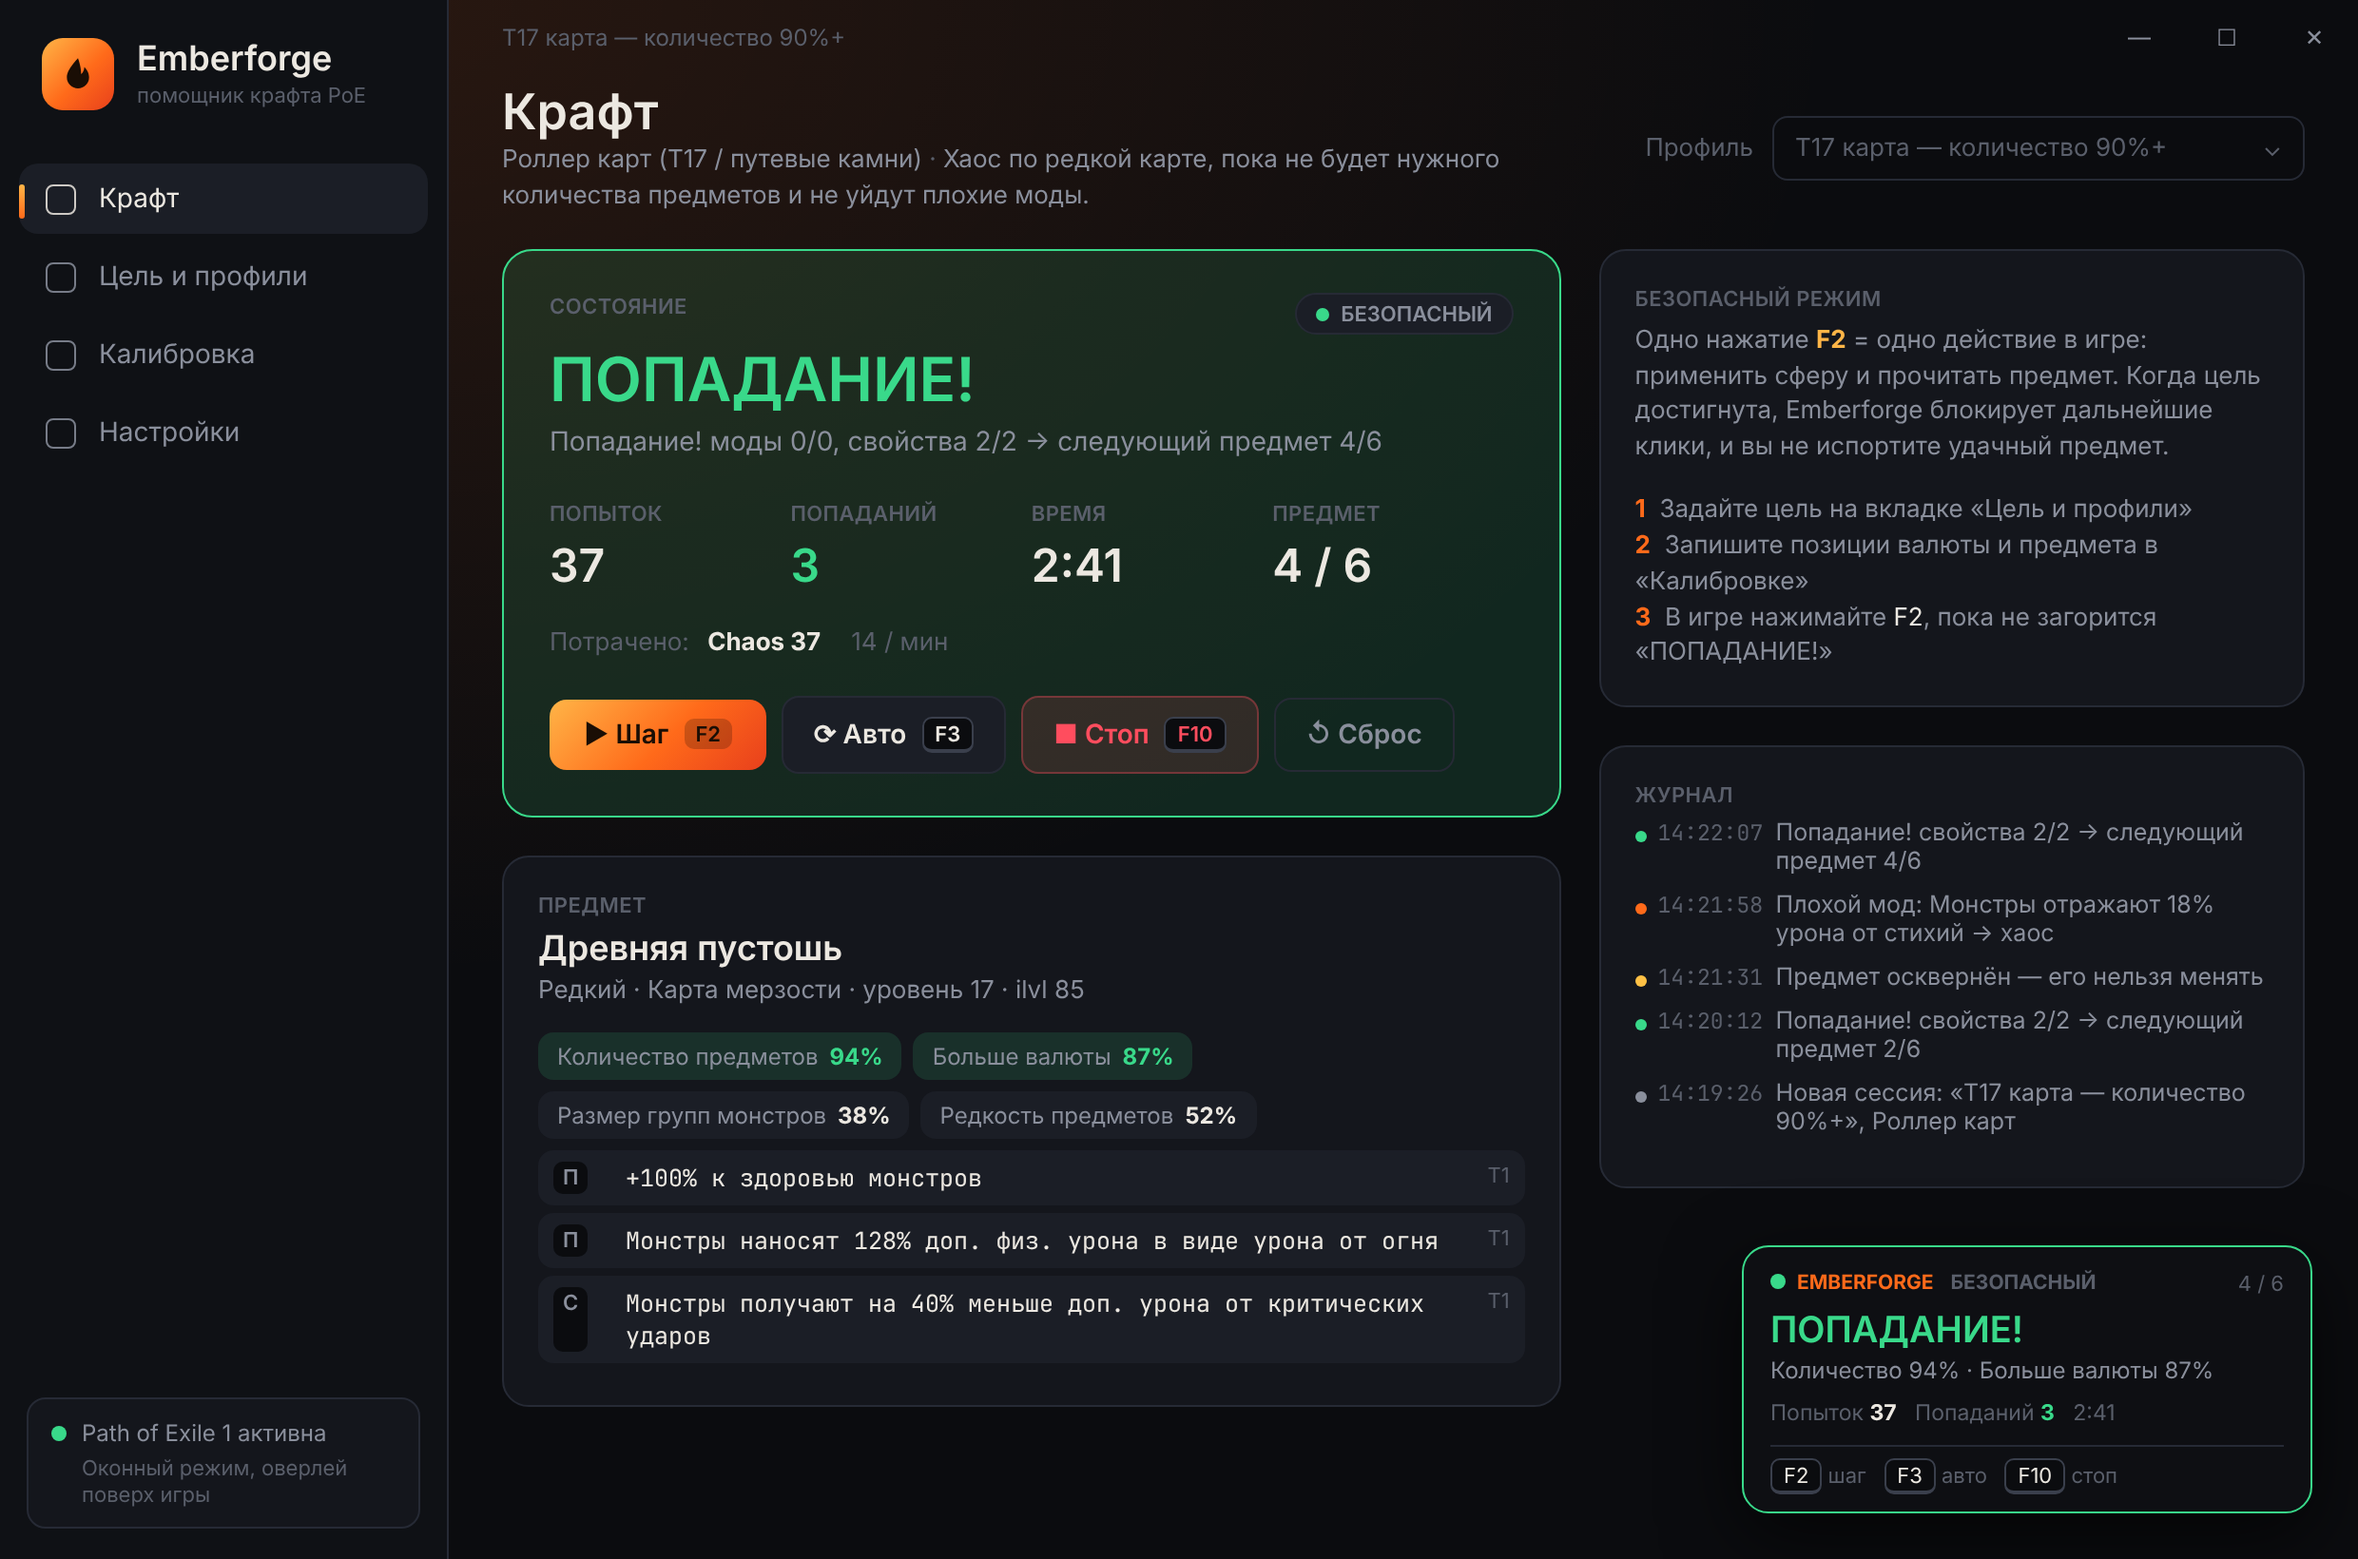
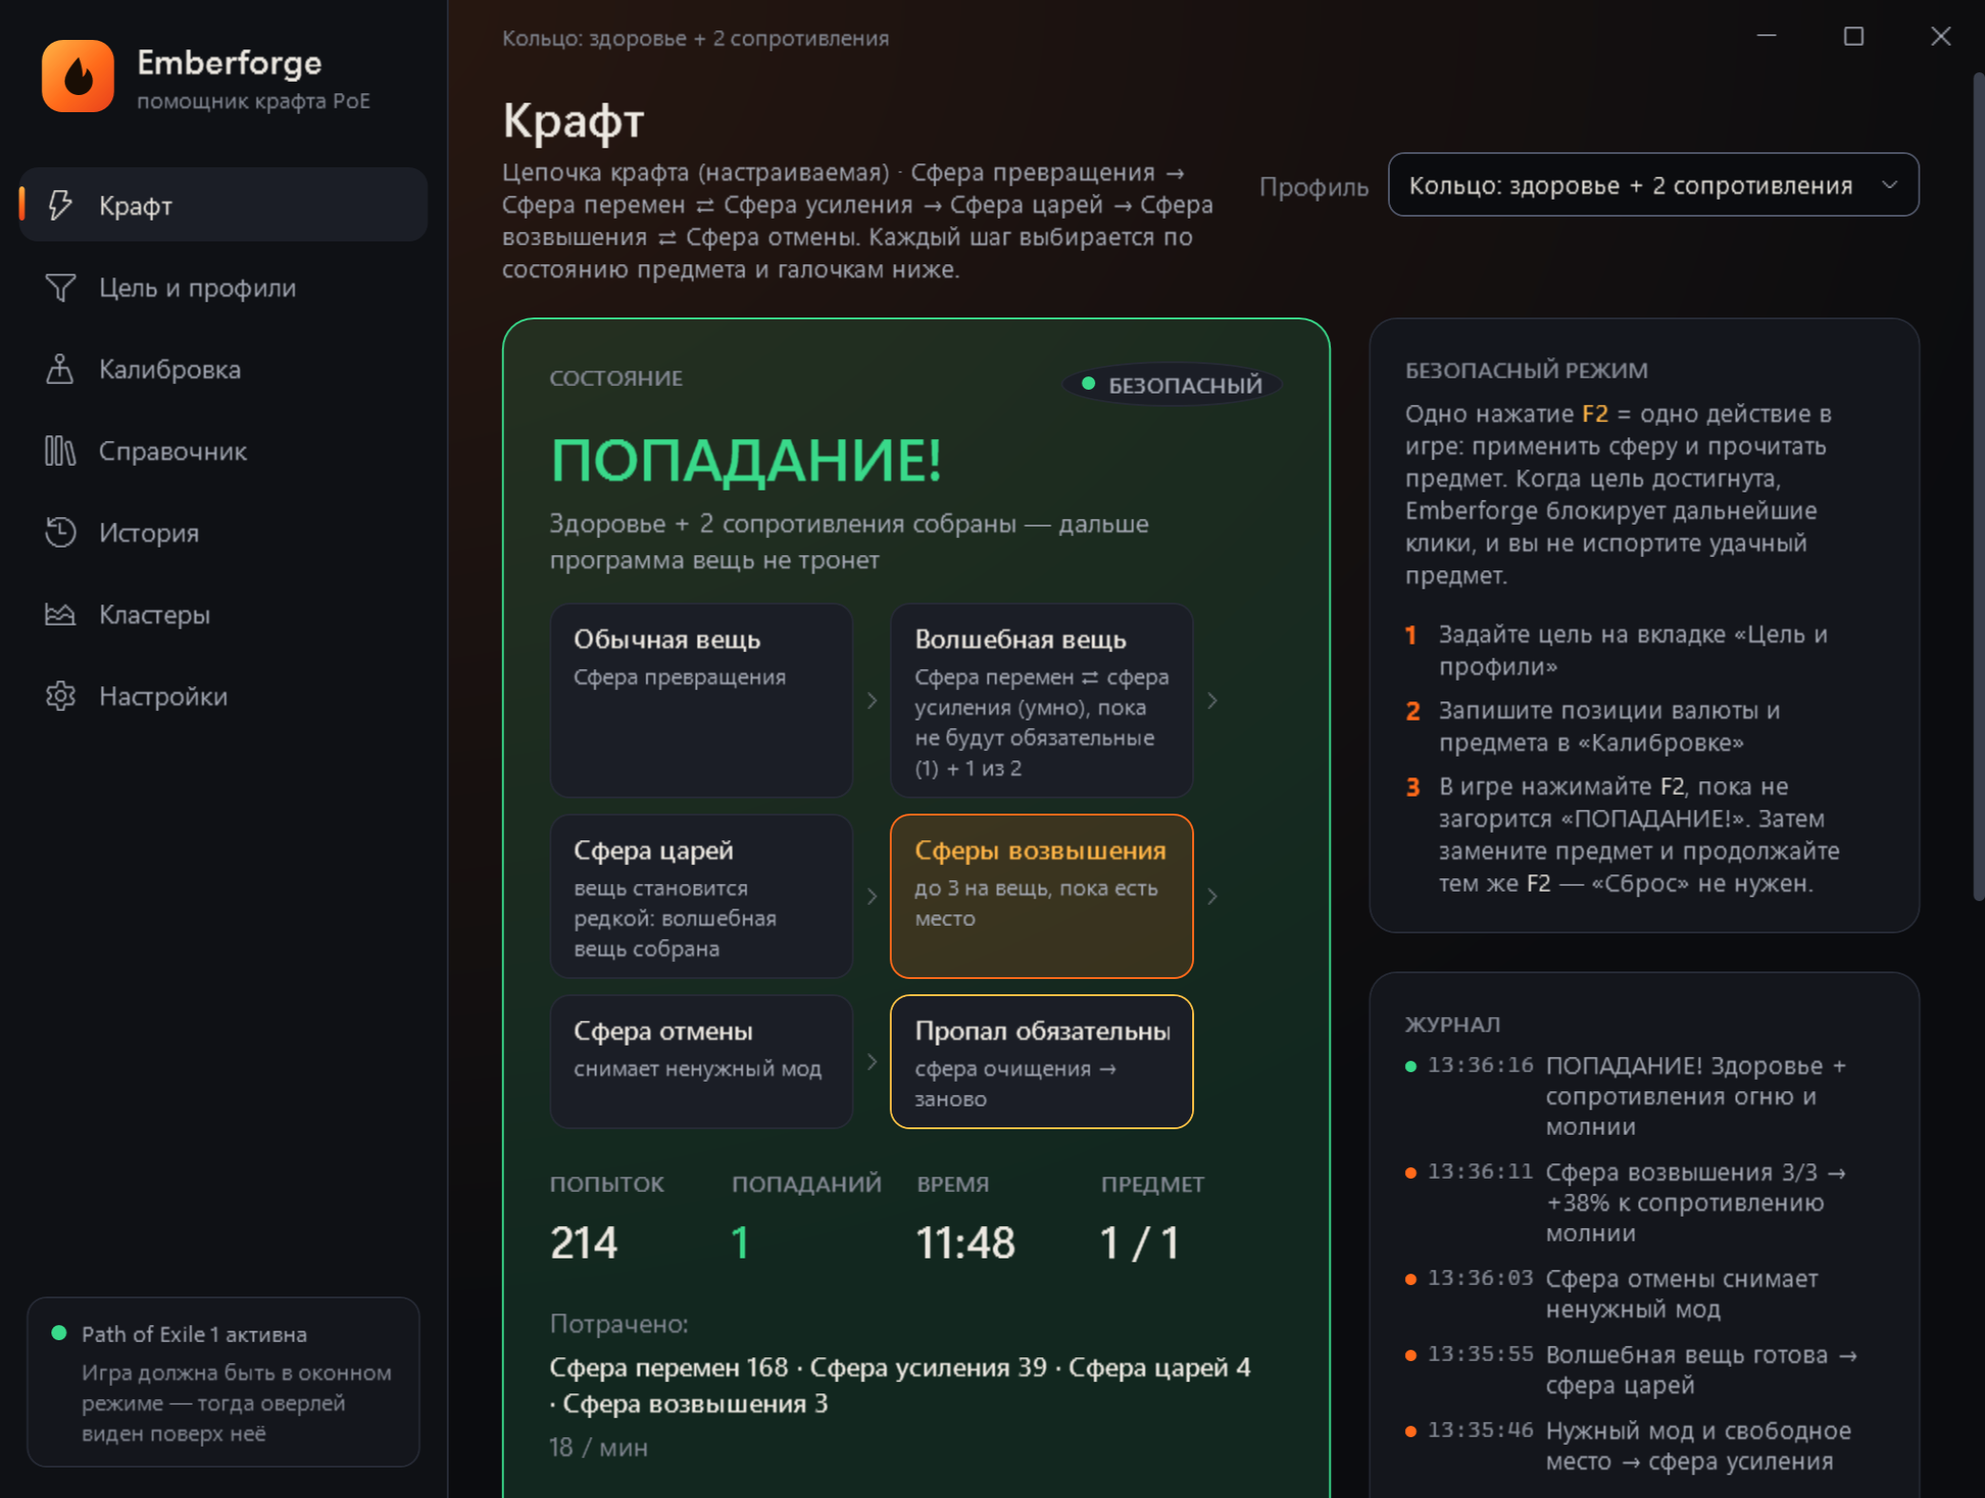
Update README, landing page and screenshots

diff --git a/README.md b/README.md
@@ -18,7 +18,7 @@
 
 ![Интерфейс Emberforge](assets/screenshot.png)
 
-<sub>Макет главного экрана: попадание при роллинге карты T17, справа плашка-оверлей поверх игры.</sub>
+<sub>Главный экран: цепочка крафта кольца дошла до цели — «ПОПАДАНИЕ!», нужные моды подсвечены зелёным.</sub>
 
 ---
 
@@ -86,6 +86,8 @@
 Цены валюты подтягиваются с poe.ninja для выбранной лиги (PoE1 — в сферах хаоса, PoE2 — в сферах возвышения). Программа показывает, во что обошлась сессия и одно попадание. Кнопка «Шансы» оценивает вероятность попадания за одну попытку и среднюю стоимость по весам модов из данных игры. Пока только для PoE1 и стратегий «Спам сферой хаоса», «Спам сферой перемен» и «Сфера перемен + сфера усиления»: настоящих весов модов PoE2 в данных игры нет. Кнопка «Найти на трейде» открывает официальный трейд с базой и нужными модами, чтобы прикинуть цену.
 
 ### 💠 Что крафтить на кластерном самоцвете
+![Страница «Кластеры»: цены сочетаний пассивок с трейда](assets/clusters.png)
+
 Страница «Кластеры»: выберите самоцвет (большой, средний, малый), зачарование, число пассивок, уровень предмета и лигу. Программа соберёт цены всех полных сочетаний пассивок (у большого кластера — 3 пассивки) с официального трейда, прямо с вашего компьютера и с соблюдением лимитов сайта, и сохранит их на диск с историей проверок. «Обновить недостающие цены» ищет по каждой пассивке (один поиск даёт цены многих сочетаний) и добирает остальное; «Обновить все данные» перепроверяет всё в бережном темпе (час-три, сам). Таблицу можно сортировать по любой колонке и фильтровать по минимальной цене продажи (например, от 1 божественной сферы), а кнопка «Один профиль на все сочетания» делает один профиль на стратегии «Цепочка крафта» для всего списка: автокрафтер остановится на любом сочетании из него. У каждого сочетания есть кнопка «Трейд» для ручной проверки цены.
 
 Гнёзда и связи (PoE1): стратегия «Гнёзда и связи (6-линк)» бросает Сферу златокузнеца, пока у вещи меньше нужного числа гнёзд, потом Сферу соединения, пока не будет нужного числа связанных (например, 6 гнёзд и 6 связей). В цели выбирается, что сделать: только гнёзда, только связи (на гнёздах, что уже есть, без Сфер златокузнеца) или гнёзда, потом связи, и сколько. Подходят и уникальные вещи. 6 гнёзд бывают только у нательных доспехов и двуручного оружия с уровнем предмета 50+, программа это проверяет.

diff --git a/README.en.md b/README.en.md
@@ -18,7 +18,7 @@
 
 ![Emberforge interface](assets/screenshot-en.png)
 
-<sub>Main screen mockup (English interface): a hit while rolling a T17 map, with the overlay shown above the game.</sub>
+<sub>Main screen: the ring crafting chain reached its target, “HIT!”, the wanted mods are highlighted in green.</sub>
 
 ---
 
@@ -86,6 +86,8 @@ Copy an item in the game (Ctrl+C; Ctrl+Alt+C is needed only for a tier filter) a
 Currency prices come from poe.ninja for the chosen league (chaos in PoE1, exalts in PoE2), so you see what a session and a single hit cost. “Odds” estimates the chance per attempt and the average cost from the game's mod weights. For now PoE1 only and only for the Chaos, Alteration and Alteration + Augmentation strategies: the PoE2 game data has no real mod weights. “Search on trade” opens the official trade site with the base and the wanted mods to estimate the price.
 
 ### 💠 What to craft on a cluster jewel
+![The “Clusters” page: trade prices of notable combos](assets/clusters-en.png)
+
 The “Clusters” page: choose the jewel (large, medium, small), the enchant, the passive count, the item level and the league. The program collects prices of every full notable combo (3 notables on a large cluster) from the official trade site, straight from your PC and within the site’s rate limits, and keeps them on disk with their check history. “Fill in missing prices” searches by each notable (one search prices many combos) and fills in the rest; “Refresh all data” re-checks everything at a gentle pace (one to three hours, on its own). The table sorts by any column and filters by a minimum selling price (e.g. from 1 Divine Orb), and “One profile for all combos” makes one “Crafting chain” profile for the whole list: the auto crafter stops on any of its combos. Every combo has a “Trade” button to check the price by hand.
 
 Sockets and links (PoE1): the “Sockets and links (6-link)” strategy uses Jeweller's Orbs until the item has the sockets it needs, then Orbs of Fusing until enough of them are linked (e.g. 6 sockets and 6 links). The target says what to make: sockets only, links only (on the sockets the item has, no Jeweller's Orbs) or sockets then links, and how many. Unique items work too. 6 sockets exist only on body armours and two-handed weapons of item level 50+, which the program checks.
